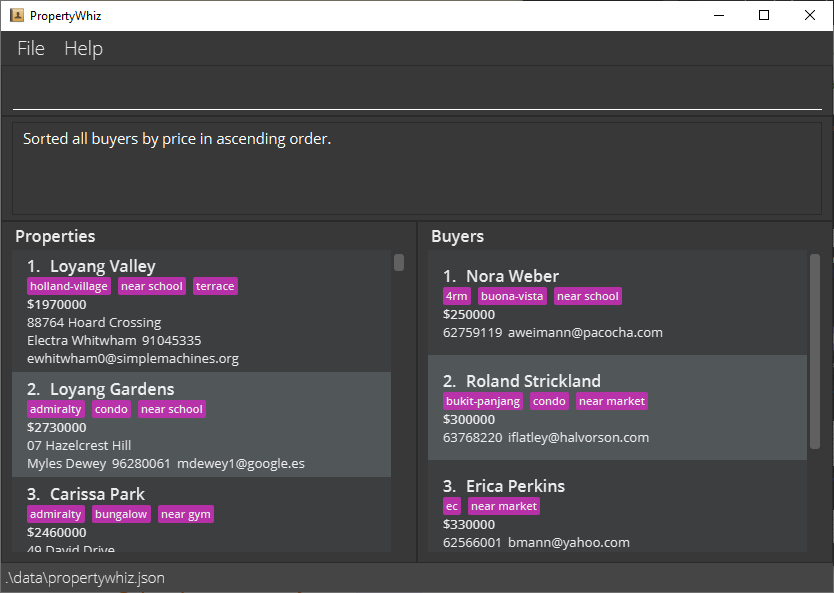
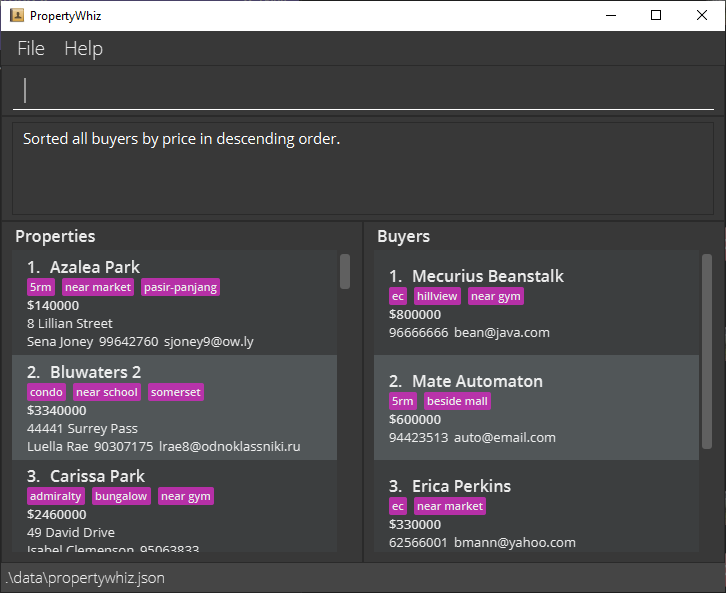
Fix ug issues

diff --git a/docs/UserGuide.md b/docs/UserGuide.md
@@ -197,6 +197,7 @@ This section helps you understand the format of the commands listed above and in
   * e.g. if the command specifies `help 123`, it will be interpreted as `help`.
 
 ------------------
+<div style="page-break-after: always;"></div>
 
 ## Valid properties/buyers
 This section describes the requirements of certain fields.
@@ -263,18 +264,17 @@ Format:
 * Adding a buyer: `add buyer n/BUYER_NAME p/BUYER_PHONE e/BUYER_EMAIL $/BUDGET [t/TAG]…`
 
 Examples:
-* `add property n/Blk 123 a/123, Clementi Rd, #04-20, 1234665 s/James Lee p/61234567 e/james@email.com $/100000 t/hdb t/3rm`
+* `add property n/Blk 123 a/123, Clementi Rd, #04-20, S654321 s/James Lee p/(hp) 61234567 e/james@email.com $/100000 t/hdb t/3rm`
 * `add buyer n/Sam p/91234567 e/sam@email.com $/740000 t/hdb t/3rm`
 
-Shown below is the output for the valid input `add property n/Blk 321 a/123, Clementi Rd, #04-20, 1234665 s/James Lee p/(hp) 61234567 e/james@email.com $/100000 t/hdb t/3rm`.
+Shown below is the output for the valid input `add property n/Blk 123 a/123, Clementi Rd, #04-20, S654321 s/James Lee p/(hp) 61234567 e/james@email.com $/100000 t/hdb t/3rm`.
 
 ![Add Property](images/AddValidUi.png)
 
 See the section [Valid properties/buyers](#valid-propertiesbuyers) for more details about the different fields.
 
 <div markdown="span" class="alert alert-primary">:bulb: **Tip:**
-If you entered an invalid input, the command box will demonstrate the correct input format so you can correct your input,
-such as in the case below.
+If you entered an invalid input, don't worry, the command box will display the correct format as shown below and you can try again.
 <br />
 <img src="images/AddInvalidUi.png" width="680"/>
 </div>
@@ -379,18 +379,18 @@ Note that while each criteria (keywords, tags and price/budget) is optional, at 
 * Only properties/buyers that match all the tags will be returned.
     * e.g. `find property t/4rm t/near school` will only return properties with both `4rm` and `near school` tags.
 * The price search is inclusive of the specified number.
-  * e.g. `find property $min/10000` will return properties with price at least $10000
-  * e.g. `find property $max/100000` will return properties with price at most $100000
+  * e.g. `find property $min/10000` will return properties with price at least $10000.
+  * e.g. `find property $max/100000` will return properties with price at most $100000.
   
 Examples:
 * `find buyer Sally` 
-  * Returns buyers `sally` and `Sally Brown`
+  * Finds buyers `sally` and `Sally Brown`
 * `find property Jurong t/4rm t/near school` 
-  * Returns properties `jurong [4rm] [near school] [near mrt]` and `Jurong East [4rm] [near school] [near mrt]` but not `jurong [4rm] [near mrt]`
-* `find property $min/10000 $max/1000000` 
-  * Returns properties that are at least $10000 and at most $1000000
+  * Finds properties `jurong [4rm] [near school] [near mrt]` and `Jurong East [4rm] [near school] [near mrt]` but not `jurong [4rm] [near mrt]`
+* `find buyer $min/100000 $max/1000000` 
+  * Finds buyers with budgets between $100000 and $1000000
 
-Shown below is the output for the valid input `find buyer $min/200000 $max/400000`.
+Shown below is the output for the valid input `find buyer $min/100000 $max/1000000`.
 
 ![Find Buyer](images/FindBuyerUi.png)
 
@@ -430,8 +430,8 @@ Examples:
 * `sort property name asc` 
   * Sorts the list of properties by their names in alphabetical order.
 
-Shown below is the output for the valid input `sort buyer price asc` after having entered
-`find buyer $min/200000 $max/400000`.
+Shown below is the output for the valid input `sort buyer price desc` after previously having entered
+`find buyer $min/100000 $max/1000000`.
 
 ![Find Buyer](images/SortBuyerUi.png)
 
